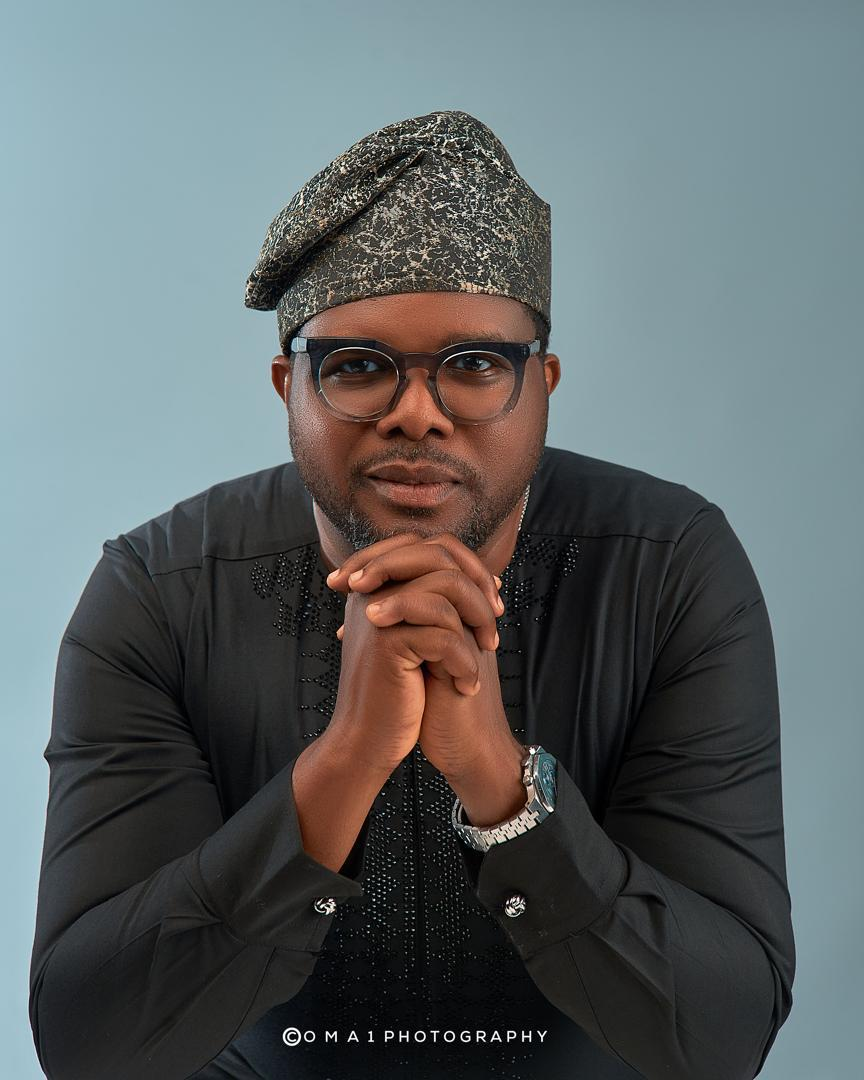
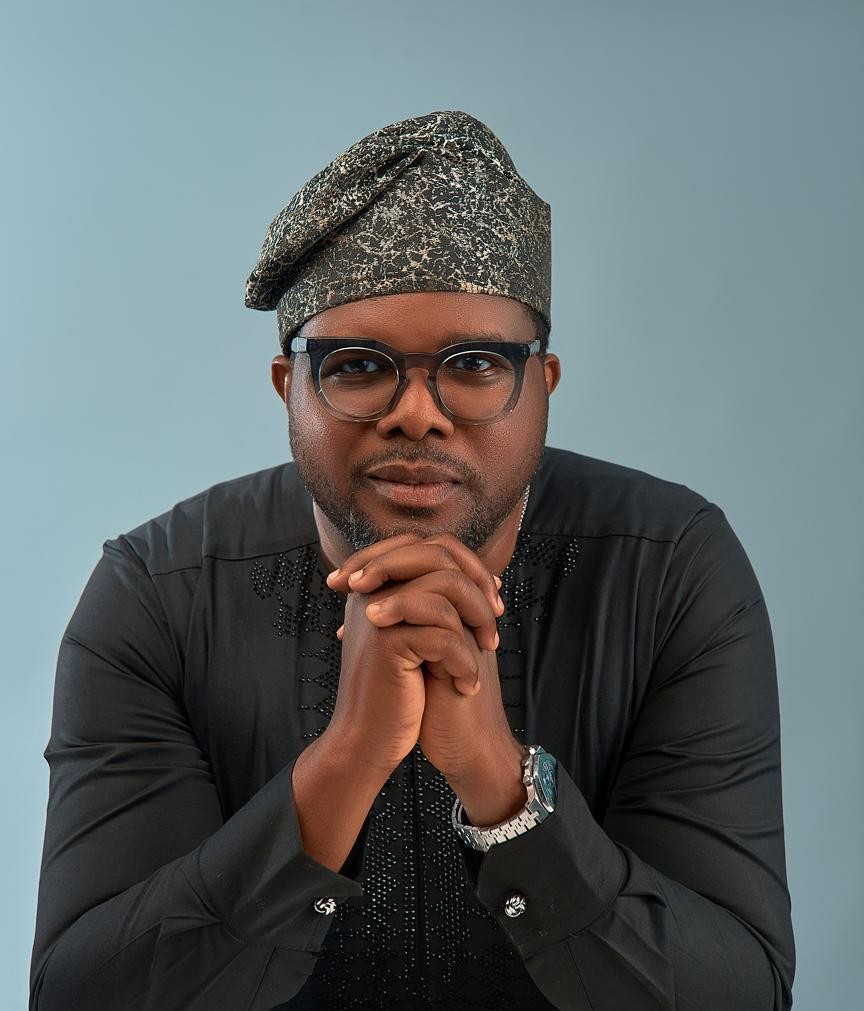
fix: changed image and footer links adjustemens

diff --git a/app/components/Footer.tsx b/app/components/Footer.tsx
@@ -5,7 +5,7 @@ import Link from "next/link";
 
 const footerLinks = {
   quickLinks: [
-    { name: "Home", href: "#" },
+    { name: "Home", href: "/" },
     { name: "About", href: "#about" },
     { name: "Expertise", href: "#expertise" },
     { name: "Testimonials", href: "#testimonials" },
@@ -253,7 +253,7 @@ export default function Footer() {
 
             {/* CTA Button */}
             <motion.a
-              href="#contact"
+              href="#booking"
               whileHover={{ scale: 1.02 }}
               whileTap={{ scale: 0.98 }}
               className="mt-6 inline-flex items-center gap-2 px-5 py-2.5 bg-gradient-to-r from-blue-600 to-blue-700 text-white text-sm font-montserrat uppercase tracking-wider rounded-full hover:from-blue-500 hover:to-blue-600 transition-all duration-300 shadow-lg shadow-blue-500/20"

diff --git a/app/components/Testimonial.tsx b/app/components/Testimonial.tsx
@@ -104,7 +104,10 @@ export default function TestimonialSlider() {
   };
 
   return (
-    <section className="relative py-20 bg-linear-to-br from-neutral-50 via-white to-neutral-100 overflow-hidden">
+    <section
+      id="testimonials"
+      className="relative py-20 bg-linear-to-br from-neutral-50 via-white to-neutral-100 overflow-hidden"
+    >
       {/* Decorative Background Elements */}
       <div className="absolute inset-0 opacity-30">
         <div className="absolute top-20 left-10 w-72 h-72 bg-blue-200 rounded-full mix-blend-multiply filter blur-3xl animate-pulse"></div>

diff --git a/app/components/Keyareas.tsx b/app/components/Keyareas.tsx
@@ -32,7 +32,7 @@ const areas = [
 
 export default function KeyAreas() {
   return (
-    <section className="relative overflow-hidden py-28">
+    <section id="expertise" className="relative overflow-hidden py-28">
       {/* ================= BACKGROUND ================= */}
       <div className="absolute inset-0 -z-10">
         {/* Soft neutral gradient */}

diff --git a/app/components/Hero.tsx b/app/components/Hero.tsx
@@ -9,7 +9,7 @@ import { useIsMobile } from "@/app/hooks/useIsMobile";
 const roles = [
   {
     title: "Result-Focused Mentoring",
-    image: "/dr-lanre/hero-1.jpeg",
+    image: "/dr-lanre/main-image.jpeg",
     ctaText: "Start Your Journey",
     ctaLink: "#booking",
   },
